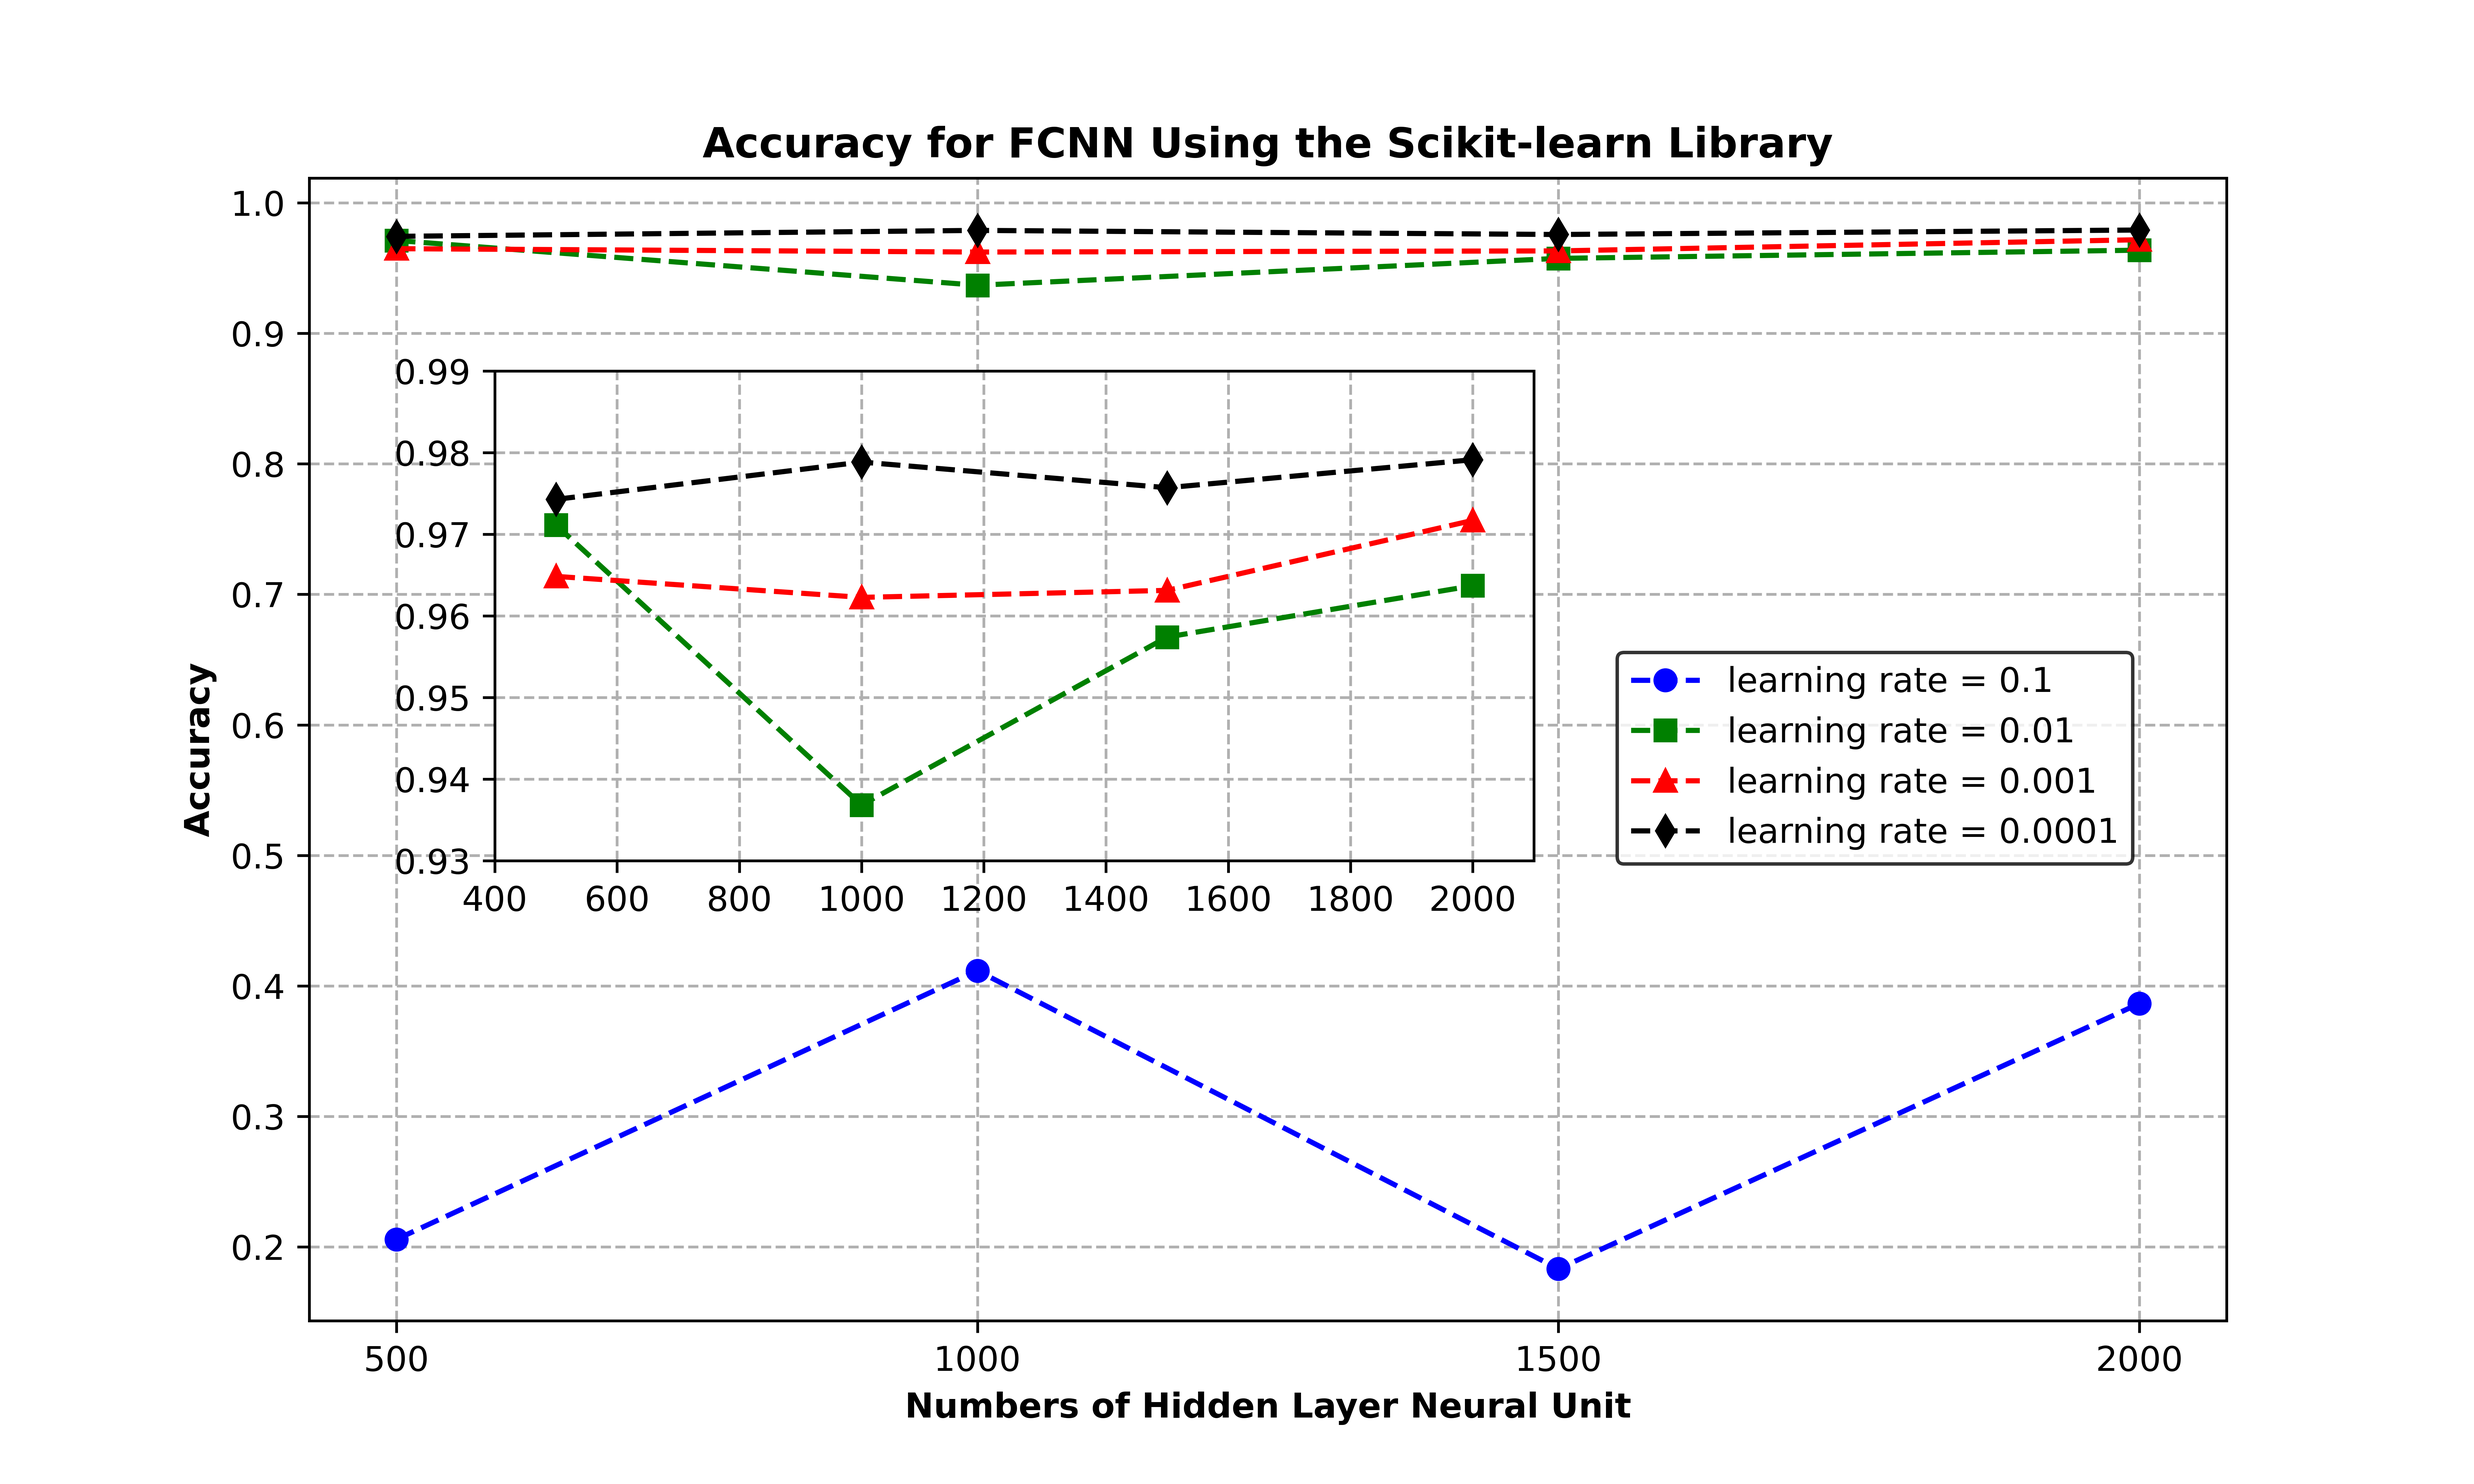
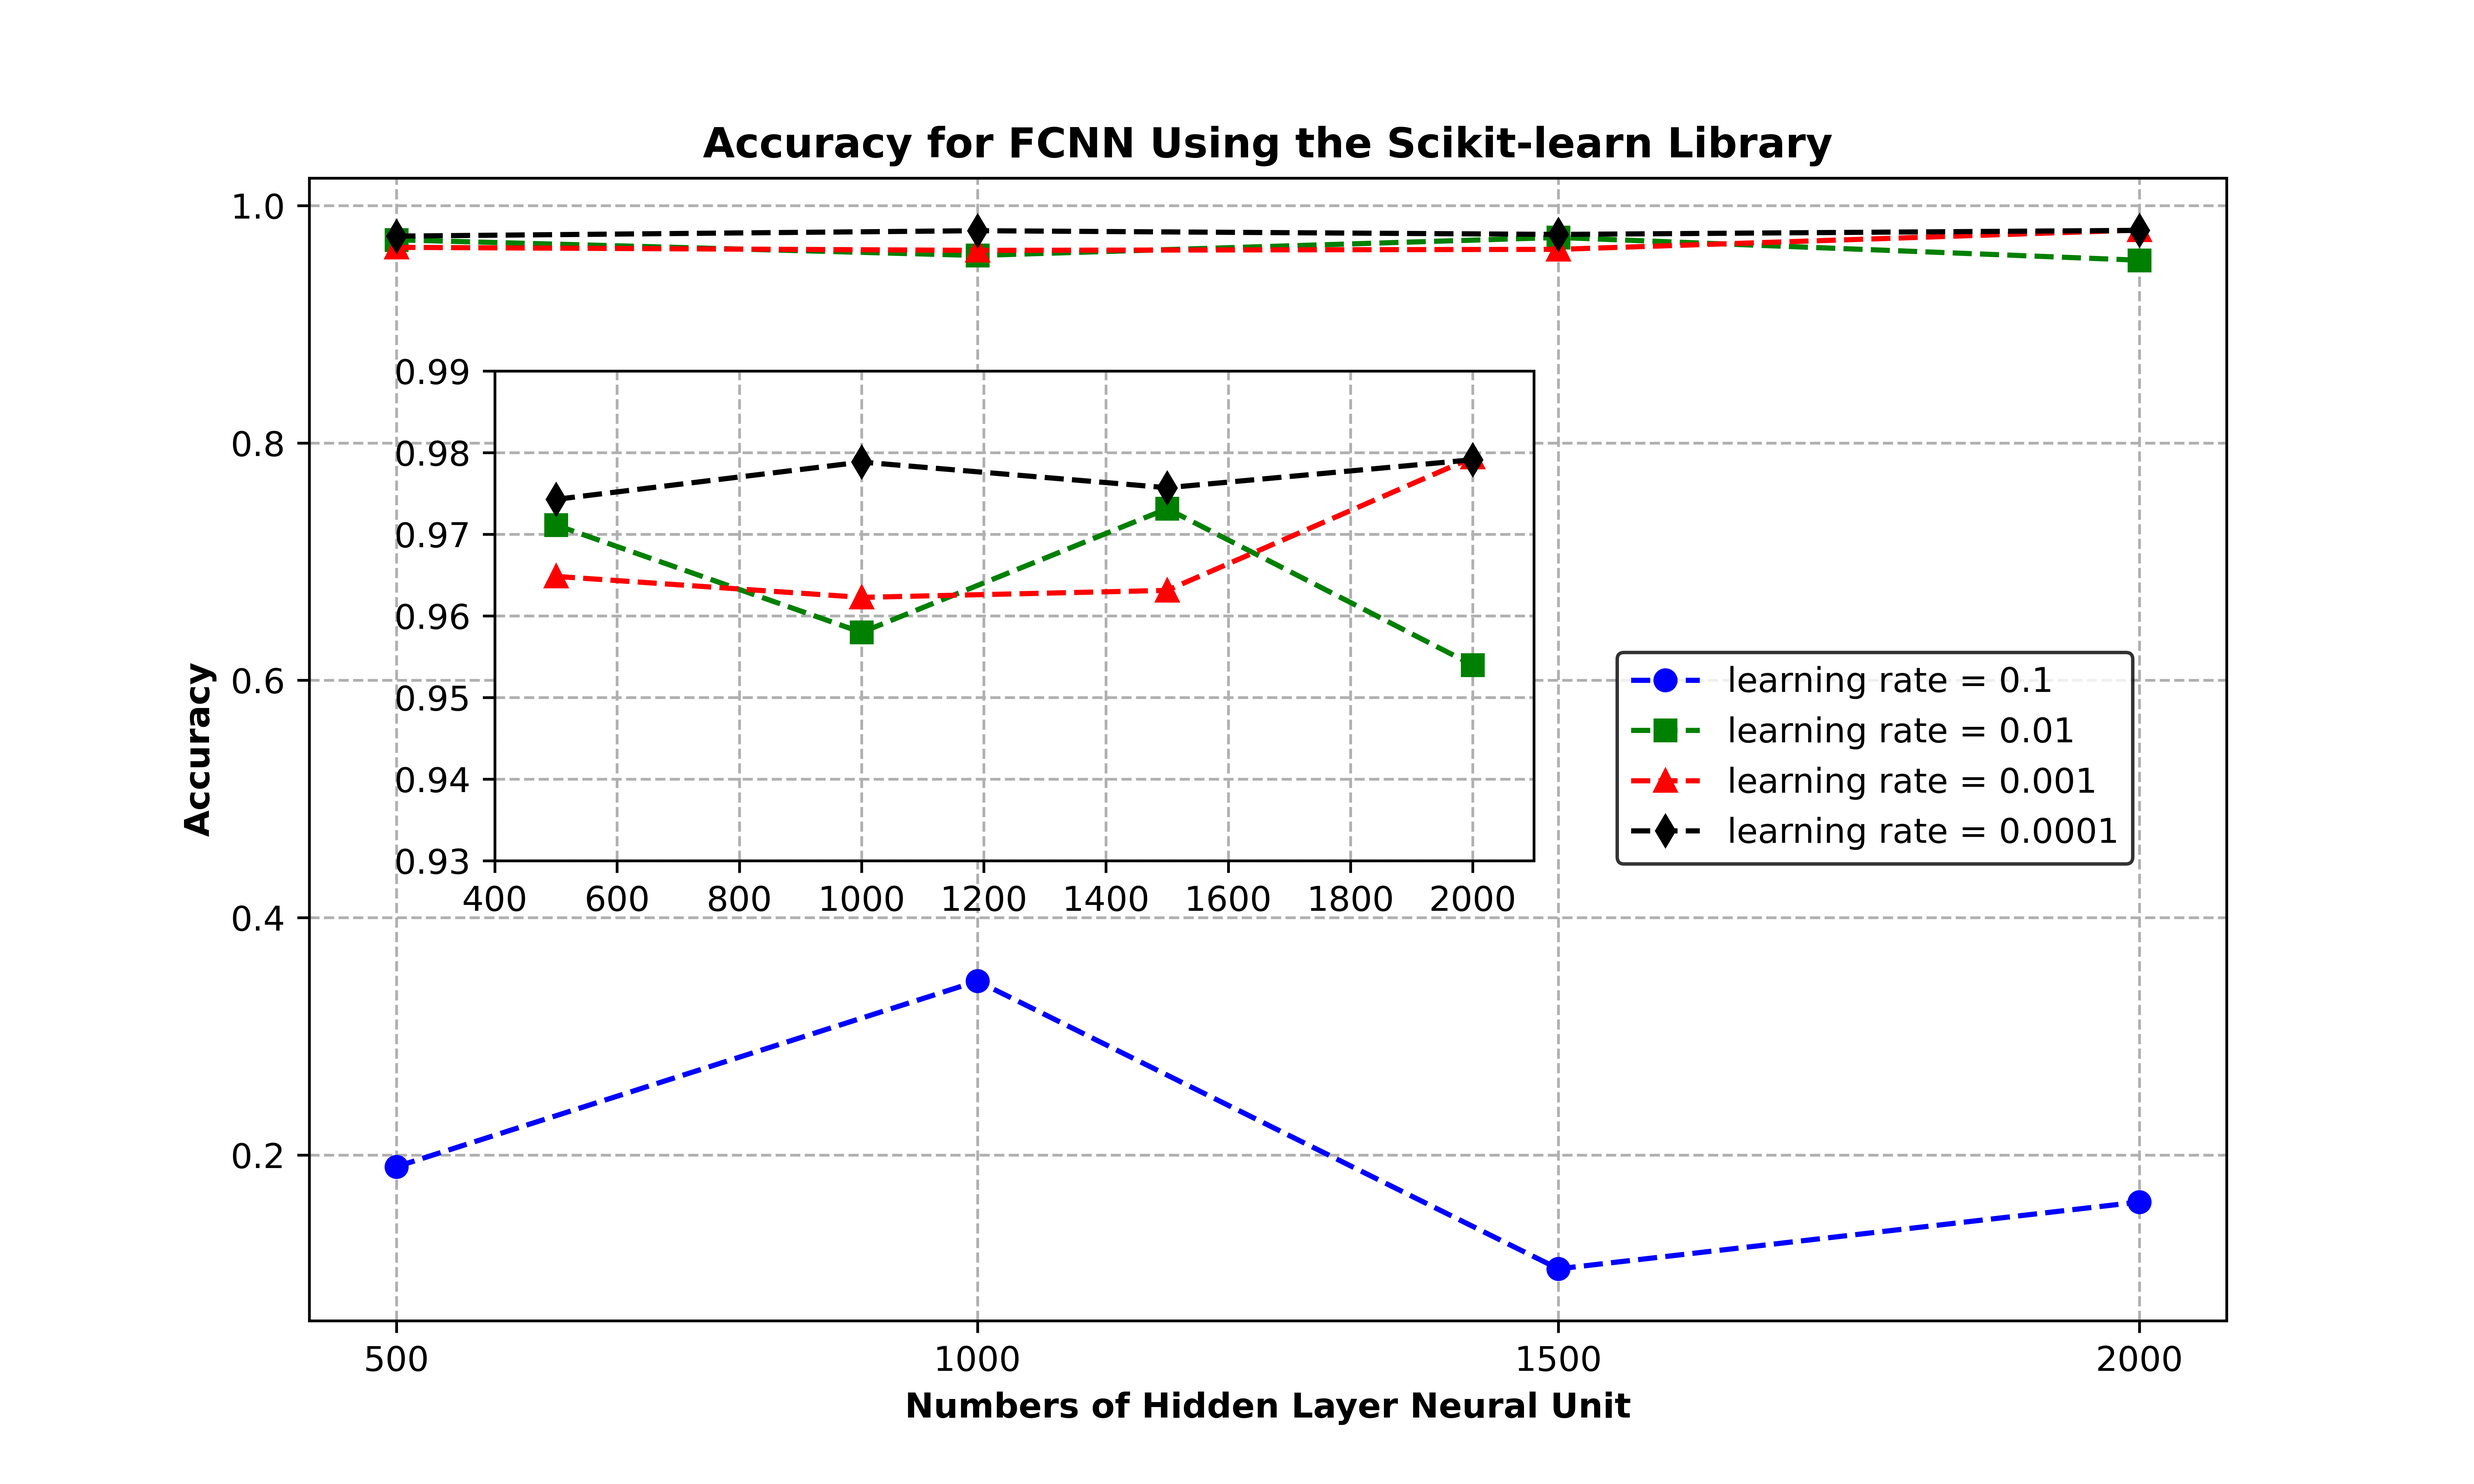
Modified figure titles.

diff --git a/fcnn_raw.py b/fcnn_raw.py
@@ -28,11 +28,14 @@ class NeuralNetwork:
     def sigmoid(self, Z):
         return 1 / (1 + np.exp(-Z))
 
+    def relu(self, Z):
+        return np.maximum(0, Z)
+
     def forward_propagation(self, X):
         Z1 = np.dot(X, self.weights1) + self.biases1
-        A1 = self.sigmoid(Z1)
+        A1 = self.relu(Z1)
         Z2 = np.dot(A1, self.weights2) + self.biases2
-        A2 = self.sigmoid(Z2)
+        A2 = self.relu(Z2)
         return A1, A2
 
     def backward_propagation(self, X, y, A1, A2):
@@ -101,7 +104,7 @@ def draw_fig():
              label='learning rate = 0.001')
     plt.plot(hidden_layer_neural_unit, result_accuracy[3], color='black', marker='d', linestyle='--',
              label='learning rate = 0.0001')
-    plt.title("Accuracy for FCNN Using the Scikit-learn Library", fontweight='bold')
+    plt.title("Accuracy for FCNN Without the Scikit-learn Library", fontweight='bold')
     plt.xticks([500, 1000, 1500, 2000])
     plt.xlabel("Numbers of Hidden Layer Nerual Unit", fontweight='bold')
     plt.ylabel("Accuracy", fontweight='bold')
@@ -120,7 +123,7 @@ def train_and_predict():
             print("当前隐层神经元数量：" + str(hidden_layer_neural_unit[i]))
             output_size = y_train_encoded.shape[1]
             model = NeuralNetwork(X_train.shape[1], hidden_layer_neural_unit[i], output_size,
-                                  learning_rate=learning_rate[j], max_iter=2000, batch_size=200)
+                                  learning_rate=learning_rate[j], max_iter=250, batch_size=200)
             model.train(X_train, y_train_encoded)
             y_pred = model.predict(X_test)
             accuracy = np.mean(y_pred == y_test)

diff --git a/fcnn_sklearn.py b/fcnn_sklearn.py
@@ -67,7 +67,7 @@ def train_and_predict():
         print("当前学习率：" + str(learning_rate[j]))
         for i in range(len(hidden_layer_neural_unit)):
             print("当前隐层神经元数量：" + str(hidden_layer_neural_unit[i]))
-            model = MLPClassifier(hidden_layer_sizes=hidden_layer_neural_unit[i], activation='relu', solver='adam',
+            model = MLPClassifier(hidden_layer_sizes=hidden_layer_neural_unit[i], activation='relu',
                                   random_state=42, learning_rate='constant', learning_rate_init=learning_rate[j],
                                   max_iter=250)
             model.fit(X_train, y_train)

diff --git a/main.py b/main.py
@@ -6,16 +6,16 @@ from knn_sklearn import knn_sklearn
 
 if __name__ == '__main__':
     print(f'----------------KNN SKLEARN----------------')
-    knn_sklearn()
+    #knn_sklearn()
 
     print(f'------------------KNN RAW------------------')
-    knn_raw()
+    #knn_raw()
 
     print(f'----------------FCNN SKLEARN---------------')
-    fcnn_sklearn()
+    #fcnn_sklearn()
 
     print(f'------------------FCNN RAW-----------------')
     fcnn_raw()
 
     print(f'----------------CNN PYTORCH----------------')
-    cnn_pytorch()
+    #cnn_pytorch()

diff --git a/knn_raw.py b/knn_raw.py
@@ -52,7 +52,7 @@ def draw_fig():
     plt.figure(figsize=(10, 6), dpi=800)
     plt.rcParams['backend'] = 'Agg'
     plt.plot(k, result_accuracy, color='blue', marker='o', linestyle='--')
-    plt.title("Accuracy for KNN Algorithm using the scikit-learn Library", fontweight='bold')
+    plt.title("Accuracy for KNN Algorithm Without the Scikit-learn Library", fontweight='bold')
     plt.xticks([1, 2, 3, 4, 5, 6, 7])
     plt.xlabel("K value", fontweight='bold')
     plt.ylabel("Accuracy", fontweight='bold')

diff --git a/knn_sklearn.py b/knn_sklearn.py
@@ -24,7 +24,7 @@ def draw_fig():
     plt.figure(figsize=(10, 6), dpi=800)
     plt.rcParams['backend'] = 'Agg'
     plt.plot(k, result_accuracy, color='blue', marker='o', linestyle='--')
-    plt.title("Accuracy for KNN Algorithm using the scikit-learn Library", fontweight='bold')
+    plt.title("Accuracy for KNN Algorithm Using the Scikit-learn Library", fontweight='bold')
     plt.xticks([1, 2, 3, 4, 5, 6, 7])
     plt.xlabel("K value", fontweight='bold')
     plt.ylabel("Accuracy", fontweight='bold')
